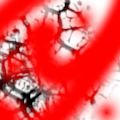
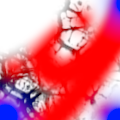
Index Buffer 랑 Vertex Buffer 객체 클래스 작성

diff --git a/main.py b/main.py
@@ -5,28 +5,60 @@ from OpenGL.GL import *
 
 import game
 import keyhandler
+from index_buffer import IndexBuffer
 from texture import Texture
+from vertex_buffer import VertexBuffer
 
 window = None
 width = 3
 
-texture_count = 0
+FLOAT_SIZE = 4
+
+def __read_file__(path: str):
+    file = open(path)
+    contents = file.read()
+    file.close()
+    return contents
+
+def __compile_shader__(shader_type, source: str):
+    shader_id = glCreateShader(shader_type)
+    glShaderSource(shader_id, source)
+    glCompileShader(shader_id)
+
+    result = glGetShaderiv(shader_id, GL_COMPILE_STATUS)
+    if result == GL_FALSE:
+        log = glGetShaderInfoLog(shader_id)
+        if log:
+            print("쉐이더 컴파일 오류!")
+            if shader_type == GL_VERTEX_SHADER:
+                print("Vertex shader")
+            elif shader_type == GL_FRAGMENT_SHADER:
+                print("Fragment shader")
+            glDeleteShader(shader_id)
+            raise Exception(log)
+
+    return shader_id
 
 
-# def register_images():
-#     global texture_count
-#     if texture_count >= 32:
-#         raise OverflowError("최대 텍스쳐 갯수에 도달했습니다! (atlas 안써...)")
-#     img = imageio.v2.imread("1.png")
-#     texture_id = glGenTextures(1)
-#     glActiveTexture(GL_TEXTURE0 + texture_count)
-#     glBindTexture(GL_TEXTURE_2D, texture_id)
-#     glTexParameteri(GL_TEXTURE_2D, GL_TEXTURE_WRAP_S, GL_REPEAT)
-#     glTexParameteri(GL_TEXTURE_2D, GL_TEXTURE_WRAP_T, GL_REPEAT)
-#     glTexParameteri(GL_TEXTURE_2D, GL_TEXTURE_MIN_FILTER, GL_LINEAR_MIPMAP_LINEAR)
-#     glTexParameteri(GL_TEXTURE_2D, GL_TEXTURE_MAG_FILTER, GL_LINEAR)
-#     glTexImage2D(GL_TEXTURE_2D, 0, GL_RGB, 120, 120, 0, GL_RGB, GL_UNSIGNED_BYTE, img)
-#     texture_count += 1
+def __create_shader__(vertex_src: str, fragment_src: str):
+    shader_program = glCreateProgram()
+    vertex_shader = __compile_shader__(GL_VERTEX_SHADER, vertex_src)
+    fragment_shader = __compile_shader__(GL_FRAGMENT_SHADER, fragment_src)
+
+    glAttachShader(shader_program, vertex_shader)
+    glAttachShader(shader_program, fragment_shader)
+    glLinkProgram(shader_program)
+    glValidateProgram(shader_program)
+
+    glDeleteShader(vertex_shader)
+    glDeleteShader(fragment_shader)
+
+    program_log = glGetProgramInfoLog(shader_program)
+
+    if program_log:
+        print("쉐이더 프로그램 링크 오류")
+        raise Exception(program_log)
+    return shader_program
 
 
 def init_window():
@@ -45,65 +77,38 @@ def init_window():
     glfw.make_context_current(window)
     glfw.set_key_callback(window, keyhandler.on_key)
 
-    vertex_file = open("vertex.vert")
-    vertex_src = vertex_file.read()
-    vertex_file.close()
+    shader_program = __create_shader__(__read_file__("vertex.vert"), __read_file__("fragment.frag"))
 
-    fragment_file = open("fragment.frag")
-    fragment_src = fragment_file.read()
-    fragment_file.close()
+    positions = np.array([
+        -0.5, -0.5,
+        0.5, -0.5,
+        0.5, 0.5,
+        -0.5, 0.5
+    ], dtype=np.float32)
 
-    vertex_shader = glCreateShader(GL_VERTEX_SHADER)
-    fragment_shader = glCreateShader(GL_FRAGMENT_SHADER)
-
-    glShaderSource(vertex_shader, vertex_src)
-    glShaderSource(fragment_shader, fragment_src)
-    glCompileShader(vertex_shader)
-    glCompileShader(fragment_shader)
-
-    vertex_log = glGetShaderInfoLog(vertex_shader)
-    if vertex_log:
-        print("Vertex 쉐이더 컴파일 오류")
-        raise Exception(vertex_log)
-    fragment_log = glGetShaderInfoLog(fragment_shader)
-    if fragment_log:
-        print("Fragment 쉐이더 컴파일 오류")
-        raise Exception(fragment_log)
-
-    shader_program = glCreateProgram()
-    glAttachShader(shader_program, vertex_shader)
-    glAttachShader(shader_program, fragment_shader)
-    glLinkProgram(shader_program)
-
-    program_log = glGetProgramInfoLog(shader_program)
-
-    if program_log:
-        print("쉐이더 프로그램 링크 오류")
-        raise Exception(program_log)
-
-    # register_images()
+    indices = np.array([
+        0, 1, 2,
+        2, 3, 0
+    ], dtype=np.uint32)
 
     vao = glGenVertexArrays(1)
     glBindVertexArray(vao)
-    vertices = np.array([
-        -1, -1, 0.0,
-        1, -1, 0.0,
-        -1, 1, 0.0,
-        1, -1, 0,
-        -1, 1, 0,
-        1, 1, 0
-    ], dtype=np.float32)
 
-    vbo = glGenBuffers(1)
-    glBindBuffer(GL_ARRAY_BUFFER, vbo)
-    glBufferData(GL_ARRAY_BUFFER, ArrayDatatype.arrayByteCount(vertices), vertices, GL_STATIC_DRAW)
+    vertex_buffer = VertexBuffer(positions, FLOAT_SIZE * 8)
+    vertex_buffer.bind()
 
-    glVertexAttribPointer(0, 3, GL_FLOAT, GL_FALSE, 3 * 4, None)
+    glVertexAttribPointer(0, 2, GL_FLOAT, GL_FALSE, 2 * FLOAT_SIZE, ctypes.c_void_p(0))
     glEnableVertexAttribArray(0)
+    #glVertexAttribPointer(1, 2, GL_FLOAT, GL_FALSE, 4 * FLOAT_SIZE, ctypes.c_void_p(2 * FLOAT_SIZE))
+    #glEnableVertexAttribArray(1)
+
+    index_buffer = IndexBuffer(indices, 6)
+
+
     glUseProgram(shader_program)
     map_uniform_location = glGetUniformLocation(shader_program, "map")
     width_uniform_location = glGetUniformLocation(shader_program, "width")
-    texture_uniform_location = glGetUniformLocation(shader_program, "textures")
+    texture_uniform_location = glGetUniformLocation(shader_program, "input_texture")
 
     texture = Texture("1.png")
     texture.bind(0)
@@ -111,15 +116,20 @@ def init_window():
 
     while not glfw.window_should_close(window):
         glClear(GL_COLOR_BUFFER_BIT)
+        glUseProgram(shader_program)
 
         glUniform1fv(map_uniform_location, 16 * 9, game.world)
         glUniform1f(width_uniform_location, width)
 
-        glDrawArrays(GL_TRIANGLES, 0, 6)
+        glBindVertexArray(vao)
+        index_buffer.bind()
+
+        glDrawElements(GL_TRIANGLES, 6, GL_UNSIGNED_INT, None)
 
         glfw.swap_buffers(window)
         glfw.poll_events()
 
+    glDeleteProgram(shader_program)
     glfw.terminate()
     return
 

diff --git a/texture.py b/texture.py
@@ -1,6 +1,7 @@
 import imageio as iio
 from OpenGL.GL import *
 
+
 class Texture:
     def __init__(self, path: str):
         img = iio.v2.imread(path)
@@ -9,8 +10,8 @@ class Texture:
 
         glTexParameteri(GL_TEXTURE_2D, GL_TEXTURE_MIN_FILTER, GL_LINEAR)
         glTexParameteri(GL_TEXTURE_2D, GL_TEXTURE_MAG_FILTER, GL_LINEAR)
-        glTexParameteri(GL_TEXTURE_2D, GL_TEXTURE_WRAP_S, GL_CLAMP)
-        glTexParameteri(GL_TEXTURE_2D, GL_TEXTURE_WRAP_T, GL_CLAMP)
+        glTexParameteri(GL_TEXTURE_2D, GL_TEXTURE_WRAP_S, GL_CLAMP_TO_BORDER)
+        glTexParameteri(GL_TEXTURE_2D, GL_TEXTURE_WRAP_T, GL_CLAMP_TO_BORDER)
 
         glTexImage2D(GL_TEXTURE_2D, 0, GL_RGBA8, img.shape[0], img.shape[1], 0, GL_RGBA, GL_UNSIGNED_BYTE, img)
         glBindTexture(GL_TEXTURE_2D, 0)

diff --git a/index_buffer.py b/index_buffer.py
@@ -1,0 +1,18 @@
+from OpenGL.GL import *
+
+UNSIGNED_INT_SIZE = 4
+
+class IndexBuffer:
+    def __init__(self, data, count):
+        self.id = glGenBuffers(1)
+        self.count = count
+        glBindBuffer(GL_ELEMENT_ARRAY_BUFFER, self.id)
+        glBufferData(GL_ELEMENT_ARRAY_BUFFER, self.count * UNSIGNED_INT_SIZE, data, GL_STATIC_DRAW)
+    def __del__(self):
+        glDeleteBuffers(1, self.id)
+
+    def bind(self):
+        glBindBuffer(GL_ELEMENT_ARRAY_BUFFER, self.id)
+
+    def unbind(self):
+        glBindBuffer(GL_ELEMENT_ARRAY_BUFFER, 0)

diff --git a/vertex_buffer.py b/vertex_buffer.py
@@ -1,0 +1,17 @@
+from OpenGL.GL import *
+
+
+class VertexBuffer:
+    def __init__(self, data, size):
+        self.id = glGenBuffers(1)
+        glBindBuffer(GL_ARRAY_BUFFER, self.id)
+        glBufferData(GL_ARRAY_BUFFER, size, data, GL_STATIC_DRAW)
+
+    def __del__(self):
+        glDeleteBuffers(1, self.id)
+
+    def bind(self):
+        glBindBuffer(GL_ARRAY_BUFFER, self.id)
+
+    def unbind(self):
+        glBindBuffer(GL_ARRAY_BUFFER, 0)
